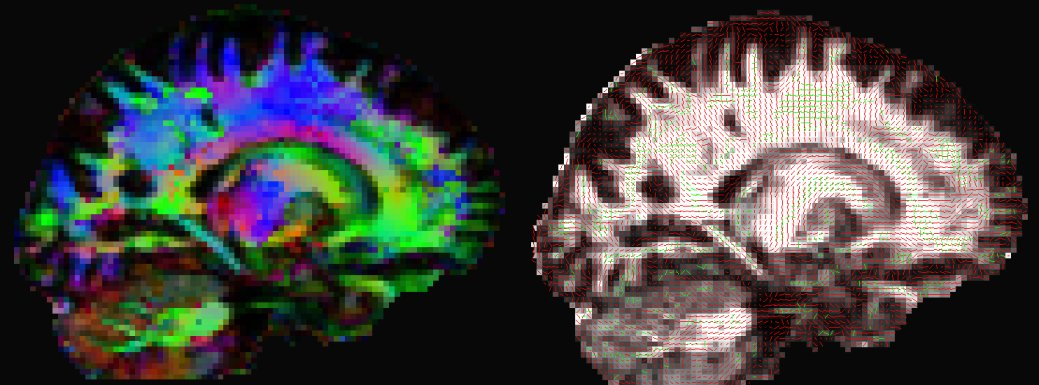
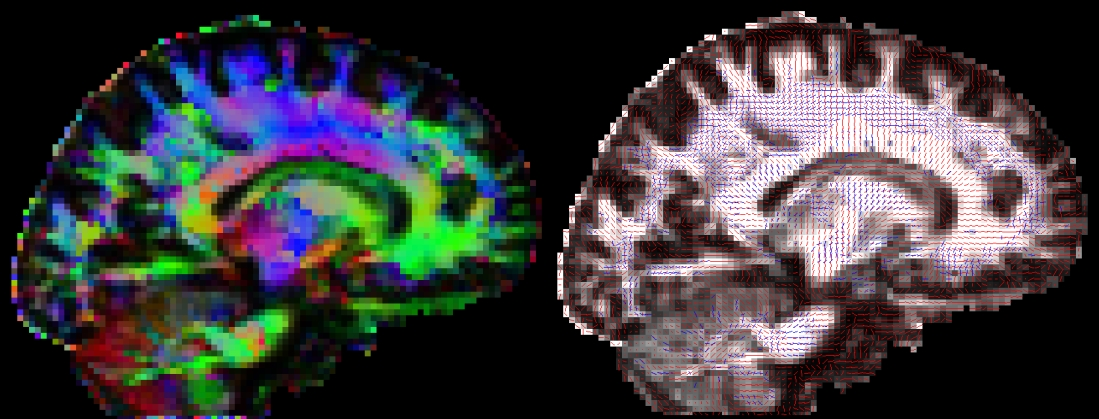
*** empty log message ***

diff --git a/doc/fdt_display.html b/doc/fdt_display.html
@@ -14,7 +14,7 @@ If you open an image of diffusion vectors (e.g., dtifit_V1 output of <b>dtifit</
 possible to display these vectors using <b>RGB</b> coding (where the colours red,green and blue represent diffusion in the x,y,z axes respectively) or
 using <b>lines</b> where a line at each voxel represents the principle
 diffusion direction at that voxel. <br>
-It is also possible to display multiple lines per voxel. Each line will be displayed in a different colour. In the example above, the red lines represent the main fibre orientation, and the green lines represent the secondary fibre orientations (thresholded at an f-value of 0.05), as calculated by bedpostx.<br>
+It is also possible to display multiple lines per voxel. Each line will be displayed in a different colour. In the example above, the red lines represent the main fibre orientation, and the blue lines represent the secondary fibre orientations (thresholded at an f-value of 0.05), as calculated by bedpostx.<br>
 If you only want to visualise fibres within voxels where multiple fibres are supported (e.g. above a certain threshold for the corresponding mean_f&#60;i&#62;samples), then you first have to create a vector file where the voxels below a certain f-threshold are zeroed. You may use the two following commands for that:<br><br>
 <verb>fslmaths mean_f&#60;i&#62;samples -thr 0.05 -bin tmpmask</verb><br>
 <verb>fslmaths dyads&#60;i&#62; -mas tmpmask dyads&#60;i&#62;_masked</verb>
